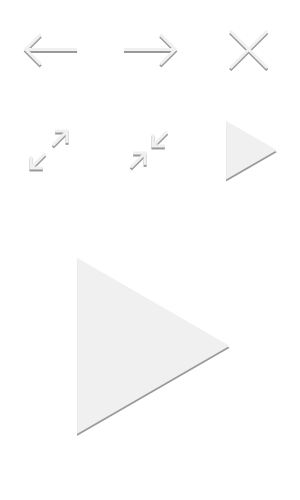
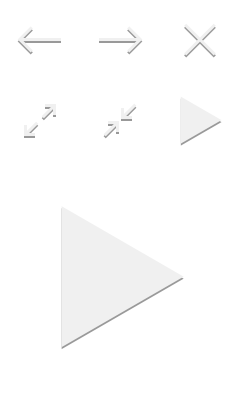
Updated distr files, added bower.json

diff --git a/fotorama/fotorama.css b/fotorama/fotorama.css
@@ -1,4 +1,4 @@
 /*!
  * Fotorama 4.6.4 | http://fotorama.io/license/
  */
-.fotorama__arr:focus:after,.fotorama__fullscreen-icon:focus:after,.fotorama__html,.fotorama__img,.fotorama__nav__frame:focus .fotorama__dot:after,.fotorama__nav__frame:focus .fotorama__thumb:after,.fotorama__stage__frame,.fotorama__stage__shaft,.fotorama__video iframe{position:absolute;width:100%;height:100%;top:0;right:0;left:0;bottom:0}.fotorama--fullscreen,.fotorama__img{max-width:99999px!important;max-height:99999px!important;min-width:0!important;min-height:0!important;border-radius:0!important;box-shadow:none!important;padding:0!important}.fotorama__wrap .fotorama__grab{cursor:move;cursor:-webkit-grab;cursor:-o-grab;cursor:-ms-grab;cursor:grab}.fotorama__grabbing *{cursor:move;cursor:-webkit-grabbing;cursor:-o-grabbing;cursor:-ms-grabbing;cursor:grabbing}.fotorama__spinner{position:absolute!important;top:50%!important;left:50%!important}.fotorama__wrap--css3 .fotorama__arr,.fotorama__wrap--css3 .fotorama__fullscreen-icon,.fotorama__wrap--css3 .fotorama__nav__shaft,.fotorama__wrap--css3 .fotorama__stage__shaft,.fotorama__wrap--css3 .fotorama__thumb-border,.fotorama__wrap--css3 .fotorama__video-close,.fotorama__wrap--css3 .fotorama__video-play{-webkit-transform:translate3d(0,0,0);transform:translate3d(0,0,0)}.fotorama__caption,.fotorama__nav:after,.fotorama__nav:before,.fotorama__stage:after,.fotorama__stage:before,.fotorama__wrap--css3 .fotorama__html,.fotorama__wrap--css3 .fotorama__nav,.fotorama__wrap--css3 .fotorama__spinner,.fotorama__wrap--css3 .fotorama__stage,.fotorama__wrap--css3 .fotorama__stage .fotorama__img,.fotorama__wrap--css3 .fotorama__stage__frame{-webkit-transform:translateZ(0);transform:translateZ(0)}.fotorama__arr:focus,.fotorama__fullscreen-icon:focus,.fotorama__nav__frame{outline:0}.fotorama__arr:focus:after,.fotorama__fullscreen-icon:focus:after,.fotorama__nav__frame:focus .fotorama__dot:after,.fotorama__nav__frame:focus .fotorama__thumb:after{content:'';border-radius:inherit;background-color:rgba(0,176,235,.5)}.fotorama__wrap--video .fotorama__stage,.fotorama__wrap--video .fotorama__stage__frame--video,.fotorama__wrap--video .fotorama__stage__frame--video .fotorama__html,.fotorama__wrap--video .fotorama__stage__frame--video .fotorama__img,.fotorama__wrap--video .fotorama__stage__shaft{-webkit-transform:none!important;transform:none!important}.fotorama__wrap--css3 .fotorama__nav__shaft,.fotorama__wrap--css3 .fotorama__stage__shaft,.fotorama__wrap--css3 .fotorama__thumb-border{transition-property:-webkit-transform,width;transition-property:transform,width;transition-timing-function:cubic-bezier(0.1,0,.25,1);transition-duration:0ms}.fotorama__arr,.fotorama__fullscreen-icon,.fotorama__no-select,.fotorama__video-close,.fotorama__video-play,.fotorama__wrap{-webkit-user-select:none;-moz-user-select:none;-ms-user-select:none;user-select:none}.fotorama__select{-webkit-user-select:text;-moz-user-select:text;-ms-user-select:text;user-select:text}.fotorama__nav,.fotorama__nav__frame{margin:auto;padding:0}.fotorama__caption__wrap,.fotorama__nav__frame,.fotorama__nav__shaft{-moz-box-orient:vertical;display:inline-block;vertical-align:middle;*display:inline;*zoom:1}.fotorama__nav__frame,.fotorama__thumb-border{box-sizing:content-box}.fotorama__caption__wrap{box-sizing:border-box}.fotorama--hidden,.fotorama__load{position:absolute;left:-99999px;top:-99999px;z-index:-1}.fotorama__arr,.fotorama__fullscreen-icon,.fotorama__nav,.fotorama__nav__frame,.fotorama__nav__shaft,.fotorama__stage__frame,.fotorama__stage__shaft,.fotorama__video-close,.fotorama__video-play{-webkit-tap-highlight-color:transparent}.fotorama__arr,.fotorama__fullscreen-icon,.fotorama__video-close,.fotorama__video-play{background:url(fotorama.png) no-repeat}@media (-webkit-min-device-pixel-ratio:1.5),(min-resolution:2dppx){.fotorama__arr,.fotorama__fullscreen-icon,.fotorama__video-close,.fotorama__video-play{background:url(fotorama@2x.png) 0 0/300px 500px no-repeat}}.fotorama__thumb{background-color:gray;background-color:rgba(128,128,128,.2)}@media print{.fotorama__arr,.fotorama__fullscreen-icon,.fotorama__thumb-border,.fotorama__video-close,.fotorama__video-play{background:none!important}}.fotorama{min-width:1px;overflow:hidden}.fotorama:not(.fotorama--unobtrusive)>*:not(:first-child){display:none}.fullscreen{width:100%!important;height:100%!important;max-width:100%!important;max-height:100%!important;margin:0!important;padding:0!important;overflow:hidden!important;background:#fff}.fotorama--fullscreen{position:absolute!important;top:0!important;left:0!important;right:0!important;bottom:0!important;float:none!important;z-index:2147483647!important;background:#fff;width:100%!important;height:100%!important;margin:0!important}.fotorama--fullscreen .fotorama__nav,.fotorama--fullscreen .fotorama__stage{background:#fff}.fotorama__wrap{-webkit-text-size-adjust:100%;position:relative;direction:ltr;z-index:0}.fotorama__wrap--rtl .fotorama__stage__frame{direction:rtl}.fotorama__nav,.fotorama__stage{overflow:hidden;position:relative;max-width:100%}.fotorama__wrap--pan-y{-ms-touch-action:pan-y}.fotorama__wrap .fotorama__pointer{cursor:pointer}.fotorama__wrap--slide .fotorama__stage__frame{opacity:1!important}.fotorama__stage__frame{overflow:hidden}.fotorama__stage__frame.fotorama__active{z-index:8}.fotorama__wrap--fade .fotorama__stage__frame{display:none}.fotorama__wrap--fade .fotorama__fade-front,.fotorama__wrap--fade .fotorama__fade-rear,.fotorama__wrap--fade .fotorama__stage__frame.fotorama__active{display:block;left:0;top:0}.fotorama__wrap--fade .fotorama__fade-front{z-index:8}.fotorama__wrap--fade .fotorama__fade-rear{z-index:7}.fotorama__wrap--fade .fotorama__fade-rear.fotorama__active{z-index:9}.fotorama__wrap--fade .fotorama__stage .fotorama__shadow{display:none}.fotorama__img{-ms-filter:"alpha(Opacity=0)";filter:alpha(opacity=0);opacity:0;border:none!important}.fotorama__error .fotorama__img,.fotorama__loaded .fotorama__img{-ms-filter:"alpha(Opacity=100)";filter:alpha(opacity=100);opacity:1}.fotorama--fullscreen .fotorama__loaded--full .fotorama__img,.fotorama__img--full{display:none}.fotorama--fullscreen .fotorama__loaded--full .fotorama__img--full{display:block}.fotorama__wrap--only-active .fotorama__nav,.fotorama__wrap--only-active .fotorama__stage{max-width:99999px!important}.fotorama__wrap--only-active .fotorama__stage__frame{visibility:hidden}.fotorama__wrap--only-active .fotorama__stage__frame.fotorama__active{visibility:visible}.fotorama__nav{font-size:0;line-height:0;text-align:center;display:none;white-space:nowrap;z-index:5}.fotorama__nav__shaft{position:relative;left:0;top:0;text-align:left}.fotorama__nav__frame{position:relative;cursor:pointer}.fotorama__nav--dots{display:block;height:0;overflow:visible}.fotorama__nav--dots .fotorama__nav__frame{width:24px;height:32px}.fotorama__nav--dots .fotorama__nav__frame--thumb,.fotorama__nav--dots .fotorama__thumb-border{display:none}.fotorama__nav--thumbs{display:block}.fotorama__nav--thumbs .fotorama__nav__frame{padding-left:0!important}.fotorama__nav--thumbs .fotorama__nav__frame:last-child{padding-right:0!important}.fotorama__nav--thumbs .fotorama__nav__frame--dot{display:none}.fotorama__nav-wrap{margin-top:-60px;position:absolute}.fotorama__dot{display:block;width:8px;height:8px;position:relative;top:12px;left:6px;border-radius:6px;border:2px solid #fff;box-shadow:0 1px 0 rgba(0,0,0,.5);margin-left:3px;margin-right:3px}.fotorama__nav__frame:focus .fotorama__dot:after{padding:1px;top:-1px;left:-1px}.fotorama__nav__frame.fotorama__active .fotorama__dot{width:8px;height:8px;border-width:2px;background-color:#fff}.fotorama__nav__frame.fotorama__active .fotorama__dot:after{padding:3px;top:-3px;left:-3px}.fotorama__thumb{overflow:hidden;position:relative;width:100%;height:100%}.fotorama__nav__frame:focus .fotorama__thumb{z-index:2}.fotorama__thumb-border{position:absolute;z-index:9;top:0;left:0;border-style:solid;border-color:#00b0eb;background-image:linear-gradient(to bottom right,rgba(255,255,255,.25),rgba(64,64,64,.1))}.fotorama__caption{position:absolute;z-index:12;bottom:0;left:0;right:0;font-family:'Helvetica Neue',Arial,sans-serif;font-size:14px;line-height:1.5;color:#000}.fotorama__caption a{text-decoration:none;color:#000;border-bottom:1px solid;border-color:rgba(0,0,0,.5)}.fotorama__caption a:hover{color:#333;border-color:rgba(51,51,51,.5)}.fotorama__wrap--rtl .fotorama__caption{left:auto;right:0}.fotorama__wrap--no-captions .fotorama__caption,.fotorama__wrap--video .fotorama__caption{display:none}.fotorama__caption__wrap{background-color:#fff;background-color:rgba(255,255,255,.9);padding:5px 10px}@-webkit-keyframes spinner{0%{-webkit-transform:rotate(0);transform:rotate(0)}100%{-webkit-transform:rotate(360deg);transform:rotate(360deg)}}@keyframes spinner{0%{-webkit-transform:rotate(0);transform:rotate(0)}100%{-webkit-transform:rotate(360deg);transform:rotate(360deg)}}.fotorama__wrap--css3 .fotorama__spinner{-webkit-animation:spinner 24s infinite linear;animation:spinner 24s infinite linear}.fotorama__wrap--css3 .fotorama__html,.fotorama__wrap--css3 .fotorama__stage .fotorama__img{transition-property:opacity;transition-timing-function:linear;transition-duration:.3s}.fotorama__wrap--video .fotorama__stage__frame--video .fotorama__html,.fotorama__wrap--video .fotorama__stage__frame--video .fotorama__img{-ms-filter:"alpha(Opacity=0)";filter:alpha(opacity=0);opacity:0}.fotorama__select{cursor:auto}.fotorama__video{top:32px;right:0;bottom:0;left:0;position:absolute;z-index:10}@-moz-document url-prefix(){.fotorama__active{box-shadow:0 0 0 transparent}}.fotorama__arr,.fotorama__fullscreen-icon,.fotorama__video-close,.fotorama__video-play{position:absolute;z-index:11;cursor:pointer}.fotorama__arr{position:absolute;width:100px;height:100px;top:50%;margin-top:-50px}.fotorama__arr--prev{left:2px;background-position:0 0}.fotorama__arr--next{right:2px;background-position:-100px 0}.fotorama__arr--disabled{pointer-events:none;cursor:default;*display:none;opacity:.1}.fotorama__fullscreen-icon{width:100px;height:100px;top:2px;right:2px;background-position:0 -100px;z-index:20}.fotorama__arr:focus,.fotorama__fullscreen-icon:focus{border-radius:50%}.fotorama--fullscreen .fotorama__fullscreen-icon{background-position:-100px -100px}.fotorama__video-play{width:300px;height:300px;left:50%;top:50%;margin-left:-150px;margin-top:-150px;background-position:0 -200px;opacity:0}.fotorama__wrap--css2 .fotorama__video-play,.fotorama__wrap--video .fotorama__stage .fotorama__video-play{display:none}.fotorama__error .fotorama__video-play,.fotorama__loaded .fotorama__video-play,.fotorama__nav__frame .fotorama__video-play{opacity:1;display:block}.fotorama__nav__frame .fotorama__video-play{width:100px;height:100px;margin-left:-50px;margin-top:-50px;background-position:-200px -100px}.fotorama__video-close{width:100px;height:100px;top:0;right:0;background-position:-200px 0;z-index:20;opacity:0}.fotorama__wrap--css2 .fotorama__video-close{display:none}.fotorama__wrap--css3 .fotorama__video-close{-webkit-transform:translate3d(100px,-100px,0);transform:translate3d(100px,-100px,0)}.fotorama__wrap--video .fotorama__video-close{display:block;opacity:1}.fotorama__wrap--css3.fotorama__wrap--video .fotorama__video-close{-webkit-transform:translate3d(0,0,0);transform:translate3d(0,0,0)}.fotorama__wrap--no-controls.fotorama__wrap--toggle-arrows .fotorama__arr,.fotorama__wrap--no-controls.fotorama__wrap--toggle-arrows .fotorama__fullscreen-icon{opacity:0}.fotorama__wrap--no-controls.fotorama__wrap--toggle-arrows .fotorama__arr:focus,.fotorama__wrap--no-controls.fotorama__wrap--toggle-arrows .fotorama__fullscreen-icon:focus{opacity:1}.fotorama__wrap--video .fotorama__arr,.fotorama__wrap--video .fotorama__fullscreen-icon{opacity:0!important}.fotorama__wrap--css2.fotorama__wrap--no-controls.fotorama__wrap--toggle-arrows .fotorama__arr,.fotorama__wrap--css2.fotorama__wrap--no-controls.fotorama__wrap--toggle-arrows .fotorama__fullscreen-icon{display:none}.fotorama__wrap--css2.fotorama__wrap--no-controls.fotorama__wrap--toggle-arrows .fotorama__arr:focus,.fotorama__wrap--css2.fotorama__wrap--no-controls.fotorama__wrap--toggle-arrows .fotorama__fullscreen-icon:focus{display:block}.fotorama__wrap--css2.fotorama__wrap--video .fotorama__arr,.fotorama__wrap--css2.fotorama__wrap--video .fotorama__fullscreen-icon{display:none!important}.fotorama__wrap--css3.fotorama__wrap--no-controls.fotorama__wrap--slide.fotorama__wrap--toggle-arrows .fotorama__fullscreen-icon:not(:focus){-webkit-transform:translate3d(100px,-100px,0);transform:translate3d(100px,-100px,0)}.fotorama__wrap--css3.fotorama__wrap--no-controls.fotorama__wrap--slide.fotorama__wrap--toggle-arrows .fotorama__arr--prev:not(:focus){-webkit-transform:translate3d(-150px,0,0);transform:translate3d(-150px,0,0)}.fotorama__wrap--css3.fotorama__wrap--no-controls.fotorama__wrap--slide.fotorama__wrap--toggle-arrows .fotorama__arr--next:not(:focus){-webkit-transform:translate3d(150px,0,0);transform:translate3d(150px,0,0)}.fotorama__wrap--css3.fotorama__wrap--video .fotorama__fullscreen-icon{-webkit-transform:translate3d(100px,-100px,0)!important;transform:translate3d(100px,-100px,0)!important}.fotorama__wrap--css3.fotorama__wrap--video .fotorama__arr--prev{-webkit-transform:translate3d(-150px,0,0)!important;transform:translate3d(-150px,0,0)!important}.fotorama__wrap--css3.fotorama__wrap--video .fotorama__arr--next{-webkit-transform:translate3d(150px,0,0)!important;transform:translate3d(150px,0,0)!important}.fotorama__wrap--css3 .fotorama__arr:not(:focus),.fotorama__wrap--css3 .fotorama__fullscreen-icon:not(:focus),.fotorama__wrap--css3 .fotorama__video-close:not(:focus),.fotorama__wrap--css3 .fotorama__video-play:not(:focus){transition-property:-webkit-transform,opacity;transition-property:transform,opacity;transition-duration:.3s}.fotorama__nav:after,.fotorama__nav:before,.fotorama__stage:after,.fotorama__stage:before{content:"";display:block;position:absolute;text-decoration:none;top:0;bottom:0;width:10px;height:auto;z-index:10;pointer-events:none;background-repeat:no-repeat;background-size:1px 100%,5px 100%}.fotorama__nav:before,.fotorama__stage:before{background-image:linear-gradient(transparent,rgba(0,0,0,.2) 25%,rgba(0,0,0,.3) 75%,transparent),radial-gradient(farthest-side at 0 50%,rgba(0,0,0,.4),transparent);background-position:0 0,0 0;left:-10px}.fotorama__nav.fotorama__shadows--left:before,.fotorama__stage.fotorama__shadows--left:before{left:0}.fotorama__nav:after,.fotorama__stage:after{background-image:linear-gradient(transparent,rgba(0,0,0,.2) 25%,rgba(0,0,0,.3) 75%,transparent),radial-gradient(farthest-side at 100% 50%,rgba(0,0,0,.4),transparent);background-position:100% 0,100% 0;right:-10px}.fotorama__nav.fotorama__shadows--right:after,.fotorama__stage.fotorama__shadows--right:after{right:0}.fotorama--fullscreen .fotorama__nav:after,.fotorama--fullscreen .fotorama__nav:before,.fotorama--fullscreen .fotorama__stage:after,.fotorama--fullscreen .fotorama__stage:before,.fotorama__wrap--fade .fotorama__stage:after,.fotorama__wrap--fade .fotorama__stage:before,.fotorama__wrap--no-shadows .fotorama__nav:after,.fotorama__wrap--no-shadows .fotorama__nav:before,.fotorama__wrap--no-shadows .fotorama__stage:after,.fotorama__wrap--no-shadows .fotorama__stage:before{display:none}
+.fotorama__arr:focus:after,.fotorama__fullscreen-icon:focus:after,.fotorama__html,.fotorama__img,.fotorama__nav__frame:focus .fotorama__dot:after,.fotorama__nav__frame:focus .fotorama__thumb:after,.fotorama__stage__frame,.fotorama__stage__shaft,.fotorama__video iframe{position:absolute;width:100%;height:100%;top:0;right:0;left:0;bottom:0}.fotorama--fullscreen,.fotorama__img{max-width:99999px!important;max-height:99999px!important;min-width:0!important;min-height:0!important;border-radius:0!important;box-shadow:none!important;padding:0!important}.fotorama__wrap .fotorama__grab{cursor:move;cursor:-webkit-grab;cursor:-o-grab;cursor:-ms-grab;cursor:grab}.fotorama__grabbing *{cursor:move;cursor:-webkit-grabbing;cursor:-o-grabbing;cursor:-ms-grabbing;cursor:grabbing}.fotorama__spinner{position:absolute!important;top:50%!important;left:50%!important}.fotorama__wrap--css3 .fotorama__arr,.fotorama__wrap--css3 .fotorama__fullscreen-icon,.fotorama__wrap--css3 .fotorama__nav__shaft,.fotorama__wrap--css3 .fotorama__stage__shaft,.fotorama__wrap--css3 .fotorama__thumb-border,.fotorama__wrap--css3 .fotorama__video-close,.fotorama__wrap--css3 .fotorama__video-play{-webkit-transform:translate3d(0,0,0);transform:translate3d(0,0,0)}.fotorama__caption,.fotorama__nav:after,.fotorama__nav:before,.fotorama__stage:after,.fotorama__stage:before,.fotorama__wrap--css3 .fotorama__html,.fotorama__wrap--css3 .fotorama__nav,.fotorama__wrap--css3 .fotorama__spinner,.fotorama__wrap--css3 .fotorama__stage,.fotorama__wrap--css3 .fotorama__stage .fotorama__img,.fotorama__wrap--css3 .fotorama__stage__frame{-webkit-transform:translateZ(0);transform:translateZ(0)}.fotorama__arr:focus,.fotorama__fullscreen-icon:focus,.fotorama__nav__frame{outline:0}.fotorama__arr:focus:after,.fotorama__fullscreen-icon:focus:after,.fotorama__nav__frame:focus .fotorama__dot:after,.fotorama__nav__frame:focus .fotorama__thumb:after{content:'';border-radius:inherit;background-color:rgba(0,176,235,.5)}.fotorama__wrap--video .fotorama__stage,.fotorama__wrap--video .fotorama__stage__frame--video,.fotorama__wrap--video .fotorama__stage__frame--video .fotorama__html,.fotorama__wrap--video .fotorama__stage__frame--video .fotorama__img,.fotorama__wrap--video .fotorama__stage__shaft{-webkit-transform:none!important;transform:none!important}.fotorama__wrap--css3 .fotorama__nav__shaft,.fotorama__wrap--css3 .fotorama__stage__shaft,.fotorama__wrap--css3 .fotorama__thumb-border{transition-property:-webkit-transform,width;transition-property:transform,width;transition-timing-function:cubic-bezier(0.1,0,.25,1);transition-duration:0ms}.fotorama__arr,.fotorama__fullscreen-icon,.fotorama__no-select,.fotorama__video-close,.fotorama__video-play,.fotorama__wrap{-webkit-user-select:none;-moz-user-select:none;-ms-user-select:none;user-select:none}.fotorama__select{-webkit-user-select:text;-moz-user-select:text;-ms-user-select:text;user-select:text}.fotorama__nav,.fotorama__nav__frame{margin:auto;padding:0}.fotorama__caption__wrap,.fotorama__nav__frame,.fotorama__nav__shaft{-moz-box-orient:vertical;display:inline-block;vertical-align:middle;*display:inline;*zoom:1}.fotorama__nav__frame,.fotorama__thumb-border{box-sizing:content-box}.fotorama__caption__wrap{box-sizing:border-box}.fotorama--hidden,.fotorama__load{position:absolute;left:-99999px;top:-99999px;z-index:-1}.fotorama__arr,.fotorama__fullscreen-icon,.fotorama__nav,.fotorama__nav__frame,.fotorama__nav__shaft,.fotorama__stage__frame,.fotorama__stage__shaft,.fotorama__video-close,.fotorama__video-play{-webkit-tap-highlight-color:transparent}.fotorama__arr,.fotorama__fullscreen-icon,.fotorama__video-close,.fotorama__video-play{background:url(fotorama.png) no-repeat}@media (-webkit-min-device-pixel-ratio:1.5),(min-resolution:2dppx){.fotorama__arr,.fotorama__fullscreen-icon,.fotorama__video-close,.fotorama__video-play{background:url(fotorama@2x.png) 0 0/240px 400px no-repeat}}.fotorama__thumb{background-color:gray;background-color:rgba(128,128,128,.2)}@media print{.fotorama__arr,.fotorama__fullscreen-icon,.fotorama__thumb-border,.fotorama__video-close,.fotorama__video-play{background:none!important}}.fotorama{min-width:1px;overflow:hidden}.fotorama:not(.fotorama--unobtrusive)>*:not(:first-child){display:none}.fullscreen{width:100%!important;height:100%!important;max-width:100%!important;max-height:100%!important;margin:0!important;padding:0!important;overflow:hidden!important;background:#fff}.fotorama--fullscreen{position:absolute!important;top:0!important;left:0!important;right:0!important;bottom:0!important;float:none!important;z-index:2147483647!important;background:#fff;width:100%!important;height:100%!important;margin:0!important}.fotorama--fullscreen .fotorama__nav,.fotorama--fullscreen .fotorama__stage{background:#fff}.fotorama__wrap{-webkit-text-size-adjust:100%;position:relative;direction:ltr;z-index:0}.fotorama__wrap--rtl .fotorama__stage__frame{direction:rtl}.fotorama__nav,.fotorama__stage{overflow:hidden;position:relative;max-width:100%}.fotorama__wrap--pan-y{-ms-touch-action:pan-y}.fotorama__wrap .fotorama__pointer{cursor:pointer}.fotorama__wrap--slide .fotorama__stage__frame{opacity:1!important}.fotorama__stage__frame{overflow:hidden}.fotorama__stage__frame.fotorama__active{z-index:8}.fotorama__wrap--fade .fotorama__stage__frame{display:none}.fotorama__wrap--fade .fotorama__fade-front,.fotorama__wrap--fade .fotorama__fade-rear,.fotorama__wrap--fade .fotorama__stage__frame.fotorama__active{display:block;left:0;top:0}.fotorama__wrap--fade .fotorama__fade-front{z-index:8}.fotorama__wrap--fade .fotorama__fade-rear{z-index:7}.fotorama__wrap--fade .fotorama__fade-rear.fotorama__active{z-index:9}.fotorama__wrap--fade .fotorama__stage .fotorama__shadow{display:none}.fotorama__img{-ms-filter:"alpha(Opacity=0)";filter:alpha(opacity=0);opacity:0;border:none!important}.fotorama__error .fotorama__img,.fotorama__loaded .fotorama__img{-ms-filter:"alpha(Opacity=100)";filter:alpha(opacity=100);opacity:1}.fotorama--fullscreen .fotorama__loaded--full .fotorama__img,.fotorama__img--full{display:none}.fotorama--fullscreen .fotorama__loaded--full .fotorama__img--full{display:block}.fotorama__wrap--only-active .fotorama__nav,.fotorama__wrap--only-active .fotorama__stage{max-width:99999px!important}.fotorama__wrap--only-active .fotorama__stage__frame{visibility:hidden}.fotorama__wrap--only-active .fotorama__stage__frame.fotorama__active{visibility:visible}.fotorama__nav{font-size:0;line-height:0;text-align:center;display:none;white-space:nowrap;z-index:5}.fotorama__nav__shaft{position:relative;left:0;top:0;text-align:left}.fotorama__nav__frame{position:relative;cursor:pointer}.fotorama__nav--dots{display:block;height:0;overflow:visible}.fotorama__nav--dots .fotorama__nav__frame{width:18px;height:32px}.fotorama__nav--dots .fotorama__nav__frame--thumb,.fotorama__nav--dots .fotorama__thumb-border{display:none}.fotorama__nav--thumbs{display:block}.fotorama__nav--thumbs .fotorama__nav__frame{padding-left:0!important}.fotorama__nav--thumbs .fotorama__nav__frame:last-child{padding-right:0!important}.fotorama__nav--thumbs .fotorama__nav__frame--dot{display:none}.fotorama__nav-wrap{margin-top:-36px;position:absolute}@media screen and (min-width:768px){.fotorama__nav-wrap{margin-top:-50px}}.fotorama__dot{display:block;width:6px;height:6px;position:relative;top:13px;left:7px;border-radius:6px;border:1px solid #fff;box-shadow:0 1px 0 rgba(0,0,0,.5);margin-left:4px;margin-right:4px}.fotorama__nav__frame:focus .fotorama__dot:after{padding:1px;top:-1px;left:-1px}.fotorama__nav__frame.fotorama__active .fotorama__dot{width:6px;height:6px;border-width:1px;background-color:#fff}.fotorama__nav__frame.fotorama__active .fotorama__dot:after{padding:3px;top:-3px;left:-3px}.fotorama__thumb{overflow:hidden;position:relative;width:100%;height:100%}.fotorama__nav__frame:focus .fotorama__thumb{z-index:2}.fotorama__thumb-border{position:absolute;z-index:9;top:0;left:0;border-style:solid;border-color:#00b0eb;background-image:linear-gradient(to bottom right,rgba(255,255,255,.25),rgba(64,64,64,.1))}.fotorama__caption{position:absolute;z-index:12;bottom:0;left:0;right:0;font-family:'Helvetica Neue',Arial,sans-serif;font-size:14px;line-height:1.5;color:#000}.fotorama__caption a{text-decoration:none;color:#000;border-bottom:1px solid;border-color:rgba(0,0,0,.5)}.fotorama__caption a:hover{color:#333;border-color:rgba(51,51,51,.5)}.fotorama__wrap--rtl .fotorama__caption{left:auto;right:0}.fotorama__wrap--no-captions .fotorama__caption,.fotorama__wrap--video .fotorama__caption{display:none}.fotorama__caption__wrap{background-color:#fff;background-color:rgba(255,255,255,.9);padding:5px 10px}@-webkit-keyframes spinner{0%{-webkit-transform:rotate(0);transform:rotate(0)}100%{-webkit-transform:rotate(360deg);transform:rotate(360deg)}}@keyframes spinner{0%{-webkit-transform:rotate(0);transform:rotate(0)}100%{-webkit-transform:rotate(360deg);transform:rotate(360deg)}}.fotorama__wrap--css3 .fotorama__spinner{-webkit-animation:spinner 24s infinite linear;animation:spinner 24s infinite linear}.fotorama__wrap--css3 .fotorama__html,.fotorama__wrap--css3 .fotorama__stage .fotorama__img{transition-property:opacity;transition-timing-function:linear;transition-duration:.3s}.fotorama__wrap--video .fotorama__stage__frame--video .fotorama__html,.fotorama__wrap--video .fotorama__stage__frame--video .fotorama__img{-ms-filter:"alpha(Opacity=0)";filter:alpha(opacity=0);opacity:0}.fotorama__select{cursor:auto}.fotorama__video{top:32px;right:0;bottom:0;left:0;position:absolute;z-index:10}@-moz-document url-prefix(){.fotorama__active{box-shadow:0 0 0 transparent}}.fotorama__arr,.fotorama__fullscreen-icon,.fotorama__video-close,.fotorama__video-play{position:absolute;z-index:11;cursor:pointer}.fotorama__arr{position:absolute;width:80px;height:80px;top:50%;margin-top:-40px}.fotorama__arr--prev{left:2px;background-position:0 0}.fotorama__arr--next{right:2px;background-position:-80px 0}.fotorama__arr--disabled{pointer-events:none;cursor:default;*display:none;opacity:.1}.fotorama__fullscreen-icon{width:80px;height:80px;top:2px;right:2px;background-position:0 -80px;z-index:20}.fotorama__arr:focus,.fotorama__fullscreen-icon:focus{border-radius:50%}.fotorama--fullscreen .fotorama__fullscreen-icon{background-position:-80px -80px}.fotorama__video-play{width:240px;height:240px;left:50%;top:50%;margin-left:-120px;margin-top:-120px;background-position:0 -160px;opacity:0}.fotorama__wrap--css2 .fotorama__video-play,.fotorama__wrap--video .fotorama__stage .fotorama__video-play{display:none}.fotorama__error .fotorama__video-play,.fotorama__loaded .fotorama__video-play,.fotorama__nav__frame .fotorama__video-play{opacity:1;display:block}.fotorama__nav__frame .fotorama__video-play{width:80px;height:80px;margin-left:-40px;margin-top:-40px;background-position:-160px -80px}.fotorama__video-close{width:80px;height:80px;top:0;right:0;background-position:-160px 0;z-index:20;opacity:0}.fotorama__wrap--css2 .fotorama__video-close{display:none}.fotorama__wrap--css3 .fotorama__video-close{-webkit-transform:translate3d(80px,-80px,0);transform:translate3d(80px,-80px,0)}.fotorama__wrap--video .fotorama__video-close{display:block;opacity:1}.fotorama__wrap--css3.fotorama__wrap--video .fotorama__video-close{-webkit-transform:translate3d(0,0,0);transform:translate3d(0,0,0)}.fotorama__wrap--no-controls.fotorama__wrap--toggle-arrows .fotorama__arr,.fotorama__wrap--no-controls.fotorama__wrap--toggle-arrows .fotorama__fullscreen-icon{opacity:0}.fotorama__wrap--no-controls.fotorama__wrap--toggle-arrows .fotorama__arr:focus,.fotorama__wrap--no-controls.fotorama__wrap--toggle-arrows .fotorama__fullscreen-icon:focus{opacity:1}.fotorama__wrap--video .fotorama__arr,.fotorama__wrap--video .fotorama__fullscreen-icon{opacity:0!important}.fotorama__wrap--css2.fotorama__wrap--no-controls.fotorama__wrap--toggle-arrows .fotorama__arr,.fotorama__wrap--css2.fotorama__wrap--no-controls.fotorama__wrap--toggle-arrows .fotorama__fullscreen-icon{display:none}.fotorama__wrap--css2.fotorama__wrap--no-controls.fotorama__wrap--toggle-arrows .fotorama__arr:focus,.fotorama__wrap--css2.fotorama__wrap--no-controls.fotorama__wrap--toggle-arrows .fotorama__fullscreen-icon:focus{display:block}.fotorama__wrap--css2.fotorama__wrap--video .fotorama__arr,.fotorama__wrap--css2.fotorama__wrap--video .fotorama__fullscreen-icon{display:none!important}.fotorama__wrap--css3.fotorama__wrap--no-controls.fotorama__wrap--slide.fotorama__wrap--toggle-arrows .fotorama__fullscreen-icon:not(:focus){-webkit-transform:translate3d(80px,-80px,0);transform:translate3d(80px,-80px,0)}.fotorama__wrap--css3.fotorama__wrap--no-controls.fotorama__wrap--slide.fotorama__wrap--toggle-arrows .fotorama__arr--prev:not(:focus){-webkit-transform:translate3d(-120px,0,0);transform:translate3d(-120px,0,0)}.fotorama__wrap--css3.fotorama__wrap--no-controls.fotorama__wrap--slide.fotorama__wrap--toggle-arrows .fotorama__arr--next:not(:focus){-webkit-transform:translate3d(120px,0,0);transform:translate3d(120px,0,0)}.fotorama__wrap--css3.fotorama__wrap--video .fotorama__fullscreen-icon{-webkit-transform:translate3d(80px,-80px,0)!important;transform:translate3d(80px,-80px,0)!important}.fotorama__wrap--css3.fotorama__wrap--video .fotorama__arr--prev{-webkit-transform:translate3d(-120px,0,0)!important;transform:translate3d(-120px,0,0)!important}.fotorama__wrap--css3.fotorama__wrap--video .fotorama__arr--next{-webkit-transform:translate3d(120px,0,0)!important;transform:translate3d(120px,0,0)!important}.fotorama__wrap--css3 .fotorama__arr:not(:focus),.fotorama__wrap--css3 .fotorama__fullscreen-icon:not(:focus),.fotorama__wrap--css3 .fotorama__video-close:not(:focus),.fotorama__wrap--css3 .fotorama__video-play:not(:focus){transition-property:-webkit-transform,opacity;transition-property:transform,opacity;transition-duration:.3s}.fotorama__nav:after,.fotorama__nav:before,.fotorama__stage:after,.fotorama__stage:before{content:"";display:block;position:absolute;text-decoration:none;top:0;bottom:0;width:10px;height:auto;z-index:10;pointer-events:none;background-repeat:no-repeat;background-size:1px 100%,5px 100%}.fotorama__nav:before,.fotorama__stage:before{background-image:linear-gradient(transparent,rgba(0,0,0,.2) 25%,rgba(0,0,0,.3) 75%,transparent),radial-gradient(farthest-side at 0 50%,rgba(0,0,0,.4),transparent);background-position:0 0,0 0;left:-10px}.fotorama__nav.fotorama__shadows--left:before,.fotorama__stage.fotorama__shadows--left:before{left:0}.fotorama__nav:after,.fotorama__stage:after{background-image:linear-gradient(transparent,rgba(0,0,0,.2) 25%,rgba(0,0,0,.3) 75%,transparent),radial-gradient(farthest-side at 100% 50%,rgba(0,0,0,.4),transparent);background-position:100% 0,100% 0;right:-10px}.fotorama__nav.fotorama__shadows--right:after,.fotorama__stage.fotorama__shadows--right:after{right:0}.fotorama--fullscreen .fotorama__nav:after,.fotorama--fullscreen .fotorama__nav:before,.fotorama--fullscreen .fotorama__stage:after,.fotorama--fullscreen .fotorama__stage:before,.fotorama__wrap--fade .fotorama__stage:after,.fotorama__wrap--fade .fotorama__stage:before,.fotorama__wrap--no-shadows .fotorama__nav:after,.fotorama__wrap--no-shadows .fotorama__nav:before,.fotorama__wrap--no-shadows .fotorama__stage:after,.fotorama__wrap--no-shadows .fotorama__stage:before{display:none}
